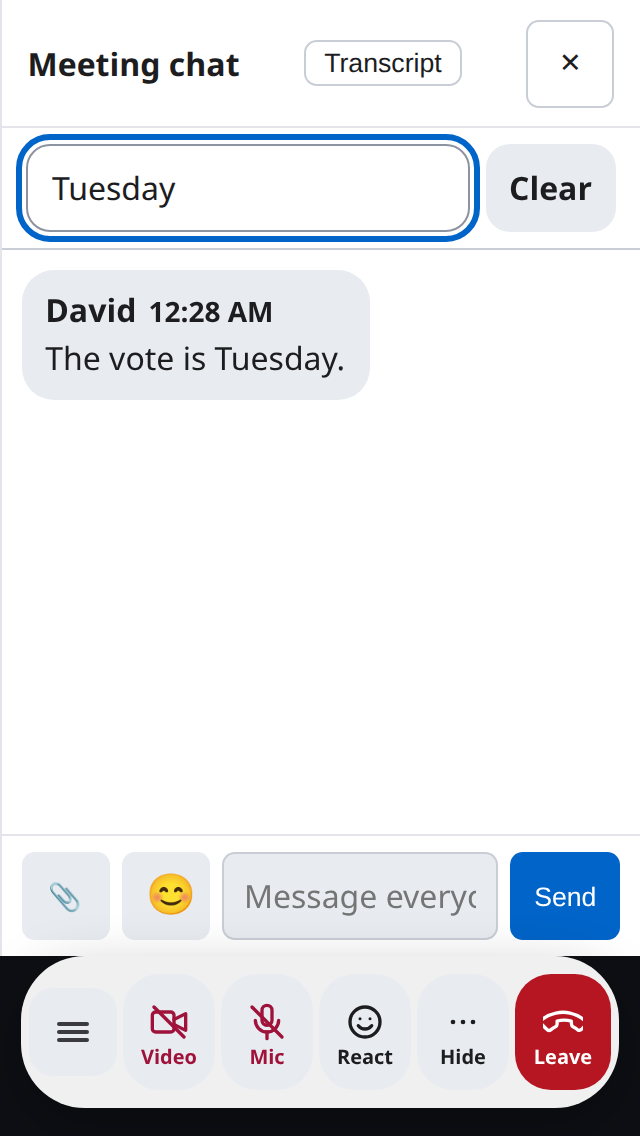
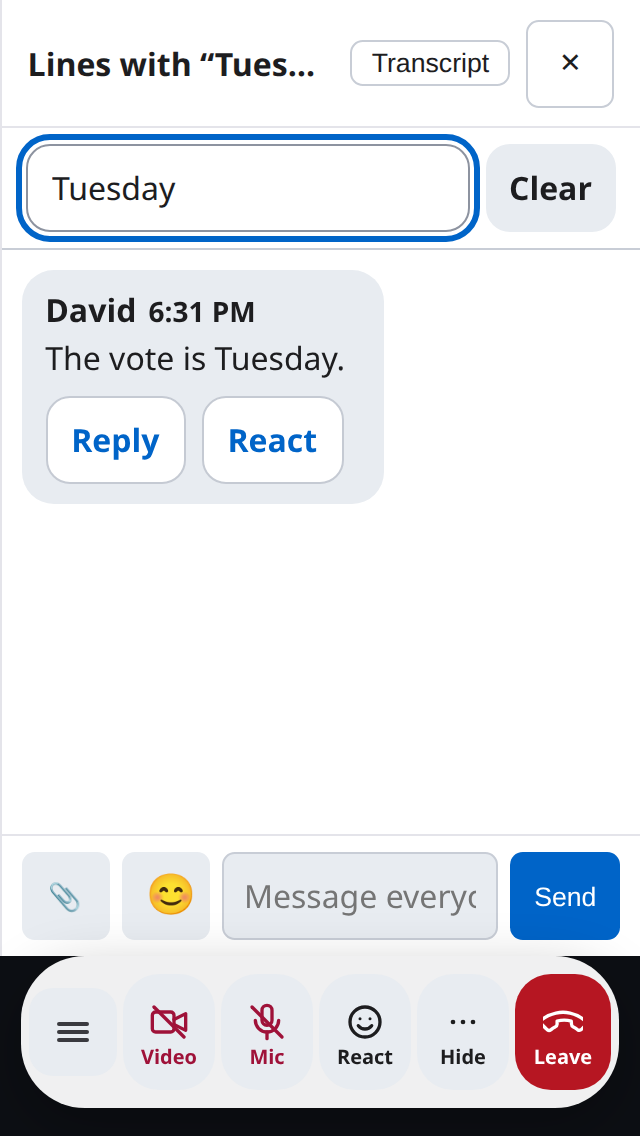
Meet: a search in chat no longer hides the line you send.
The Search key ends the search and drops the keyboard; the filter stays. While a search is on, the chat title reads 'Lines with "Tuesday"', so a sideways phone still says the log is cut down when Find steps aside. Sending a line clears the search so your line shows.

Proof: test/mobile/chat-find-sign.js failed at b5d60c9 (Search key leaves the keyboard on Find; message field cannot be tapped; keyboard covers field (bottom 171, line 120); the line you sent is not in the log), passes here. All 19 chat tests, safe-area.js and landscape-first.js pass. header-full.js fails with and without this change.

diff --git a/run.html b/run.html
@@ -1130,7 +1130,9 @@ requestAnimationFrame(chk);setTimeout(show,1500);})();</script>
                background: var(--bg, #101018); border-left: 1px solid var(--border, #2a2a3f); display: none; flex-direction: column; }
   #chatpanel.open { display: flex; }
   #chathead { display: flex; align-items: center; gap: .5rem; padding: .6rem .8rem; border-bottom: 1px solid var(--border, #2a2a3f); font-weight: 700; }
-  #chathead button { margin-left: auto; padding: .2rem .6rem; border-radius: .4rem; border: 1px solid var(--border, #2a2a3f); background: var(--surface, #1c1c2b); color: var(--text, #e0e0f0); cursor: pointer; }
+  /* A long search in the title trims; it never pushes Close off. */
+  #paneltitle { min-width: 0; overflow: hidden; text-overflow: ellipsis; white-space: nowrap; }
+  #chathead button { flex-shrink: 0; margin-left: auto; padding: .2rem .6rem; border-radius: .4rem; border: 1px solid var(--border, #2a2a3f); background: var(--surface, #1c1c2b); color: var(--text, #e0e0f0); cursor: pointer; }
   #chatlog { flex: 1; overflow-y: auto; padding: .6rem; display: flex; flex-direction: column; gap: 8px; font-size: 1rem; }
   #chatnew { align-self: center; flex: 0 0 auto; margin: 0 12px 8px; min-height: 44px; padding: 0 16px;
              border: 0; border-radius: 22px; background: #0064c8; color: #fff; cursor: pointer;
@@ -15710,7 +15712,12 @@ requestAnimationFrame(chk);setTimeout(show,1500);})();</script>
     function paintChatFind() {
       const q = document.getElementById('chatq');
       const clear = document.getElementById('chatqclear');
-      if (clear) clear.hidden = !(q && String(q.value || '').trim());
+      const text = q ? String(q.value || '').trim() : '';
+      if (clear) clear.hidden = !text;
+      // Sideways, Find steps aside while the keyboard is up. The title is
+      // still on screen, so it says the log is cut down.
+      const title = document.getElementById('paneltitle');
+      if (title && !transcriptShown()) title.textContent = text ? 'Lines with “' + text + '”' : uiText('chatTitle', 'Meeting chat');
     }
     function renderChat() {
       if (!chatPanelOpen() || transcriptShown()) return;
@@ -15764,6 +15771,8 @@ requestAnimationFrame(chk);setTimeout(show,1500);})();</script>
       const clear = document.getElementById('chatqclear');
       if (!q || !clear) return;
       q.addEventListener('input', () => renderChat());
+      // The Search key ends the search and drops the keyboard; the filter stays.
+      q.addEventListener('keydown', (e) => { if (e.key === 'Enter') { e.preventDefault(); q.blur(); } });
       clear.onclick = () => { q.value = ''; renderChat(); try { q.focus(); } catch (e) {} };
     })();
     // The chat gate: repainted on every mod merge and admin-state flip. The
@@ -15945,6 +15954,9 @@ requestAnimationFrame(chk);setTimeout(show,1500);})();</script>
       chat.set(m.id, m);
       sendAll({ k: 'chat', m });
       inp.value = '';
+      // A search would hide the line you just sent.
+      const q = document.getElementById('chatq');
+      if (q) q.value = '';
       pendingReply = null;
       paintReply();
       paintMentions();

diff --git a/QUIRKS.md b/QUIRKS.md
@@ -591,9 +591,19 @@ Repro: `test/mobile/chat-keyboard.js`. It failed (`field cannot be tapped; keybo
 
 Before: `qa/mobile/shots/before-chat-keyboard-land.png`. After: `qa/mobile/shots/after-chat-keyboard-land.png`, and `qa/mobile/shots/after-chat-find-kb-land.png` (Find in use with the keyboard up).
 
+### 68. A search in chat hid the line you sent
+
+Search "Tuesday" and the log shows only that line. The Search key did nothing, so on a sideways SE the keyboard stayed on Find and the message field sat under the keys. Once Find stepped aside, nothing on screen said the log was cut down. And a line you sent did not match, so it vanished as you sent it.
+
+The Search key ends the search and drops the keyboard; the filter stays. While a search is on, the chat title reads 'Lines with "Tuesday"' (it trims, and Close stays put). Sending a line clears the search, so your line shows with the rest.
+
+Repro: `test/mobile/chat-find-sign.js`. It failed (`Search key leaves the keyboard on Find; message field cannot be tapped; keyboard covers field (bottom 171, line 120); the line you sent is not in the log`), then passed. All 19 chat tests, safe-area.js and landscape-first.js pass. `header-full.js` fails with and without this change.
+
+Before: `qa/mobile/shots/before-chat-find-sign-land.png`. After: `qa/mobile/shots/after-chat-find-sign-land.png`, and `qa/mobile/shots/after-chat-find-iphone-se.png` (the title in portrait).
+
 ## Open
 
-The build name is a faint line under the header. A green round "A" in Nathan's shot did not appear in the Playwright capture. Fit and the name chip stay while the dock is tucked. A closed chat says who mentioned you, Reply keeps that line on the answer, and Delete takes back your own line. An address in a line is a link. The room name and full screen are 44px taps. A sideways phone shows the whole name. A chat line takes a reaction. The keyboard leaves the chat field and Send in view on a sideways SE.
+The build name is a faint line under the header. A green round "A" in Nathan's shot did not appear in the Playwright capture. Fit and the name chip stay while the dock is tucked. A closed chat says who mentioned you, Reply keeps that line on the answer, and Delete takes back your own line. An address in a line is a link. The room name and full screen are 44px taps. A sideways phone shows the whole name. A chat line takes a reaction. The keyboard leaves the chat field and Send in view on a sideways SE. The chat title says when a search is cutting the log down. `header-full.js` fails: the room name is not trimmed.
 
 ## Personas (what was actually tried)
 

diff --git a/BENCHMARK.md b/BENCHMARK.md
@@ -115,3 +115,4 @@ Family and friends. Warm, few steps, a texted link.
 56. Your own line could not be taken back. `test/mobile/chat-delete.js` failed (`no way to take back your line`), then passed. Delete on your line is 44px and stays off Send. The line leaves. Ruth's line has no Delete. Personal chat 9→10. Audience scores stay 9 / 9 / 9. A reaction still has no place on a line. Nobody leads yet.
 57. A chat line had no reaction. `test/mobile/chat-react.js` failed (`no way to react to a line`), then passed. React on their line and the five picks are 44px and stay off Send. The count shows on the line, yours is outlined, and a second tap takes it off. A frame counts only from the person it names. Audience scores stay 9 / 9 / 9. `chat-keyboard.js` fails on a sideways SE, where the keyboard covers the field. Nobody leads yet.
 58. A sideways keyboard covered the chat field. `test/mobile/chat-keyboard.js` failed on an SE (`keyboard covers field (bottom 171, line 120)`), then passed. Find in chat steps aside while the keyboard is up, unless you are searching. Audience scores stay 9 / 9 / 9. Nobody leads yet.
+59. A search in chat hid the line you sent. `test/mobile/chat-find-sign.js` failed (`Search key leaves the keyboard on Find; message field cannot be tapped; the line you sent is not in the log`), then passed. The Search key ends the search, the title says 'Lines with "Tuesday"', and sending clears the search. Audience scores stay 9 / 9 / 9. `header-full.js` fails. Nobody leads yet.
